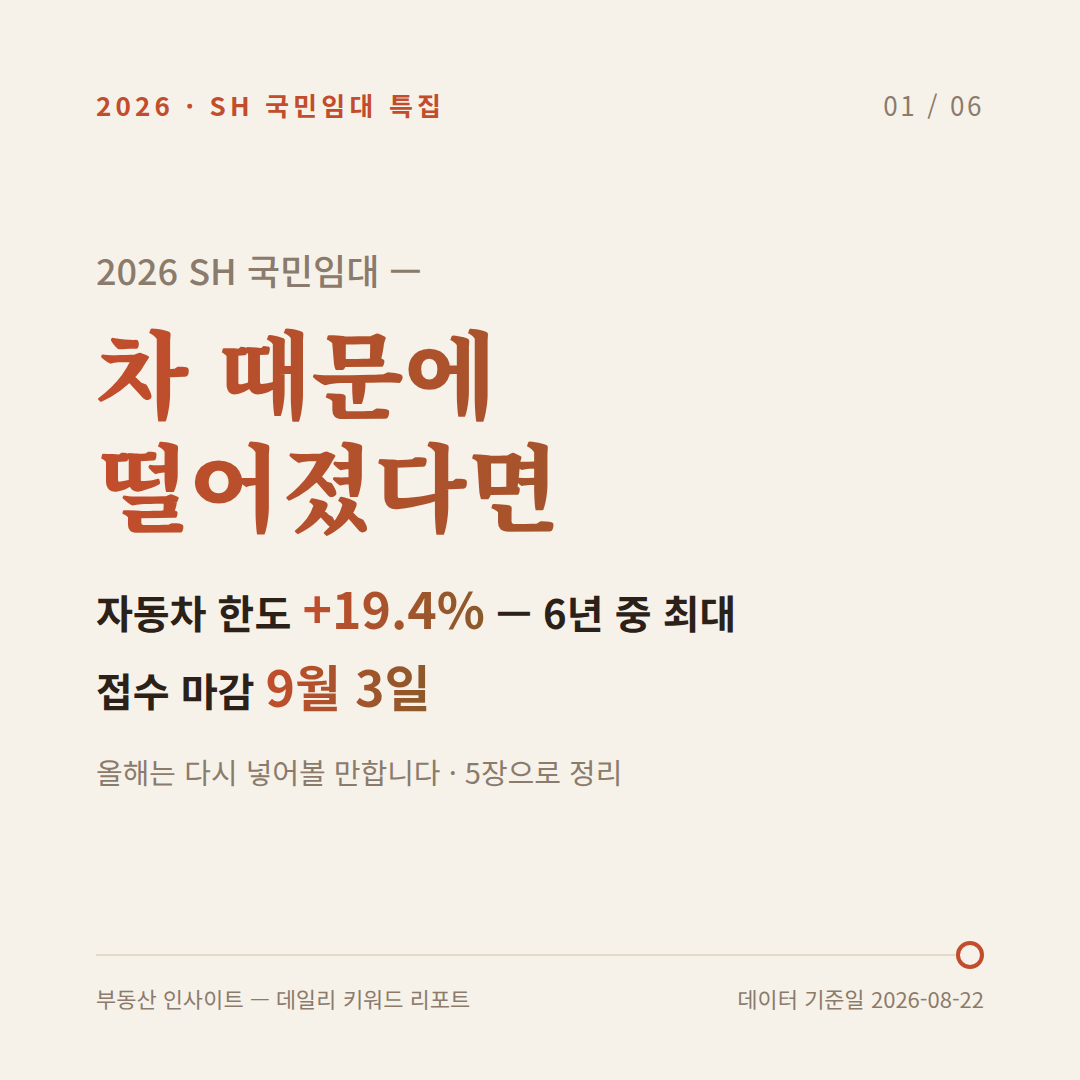
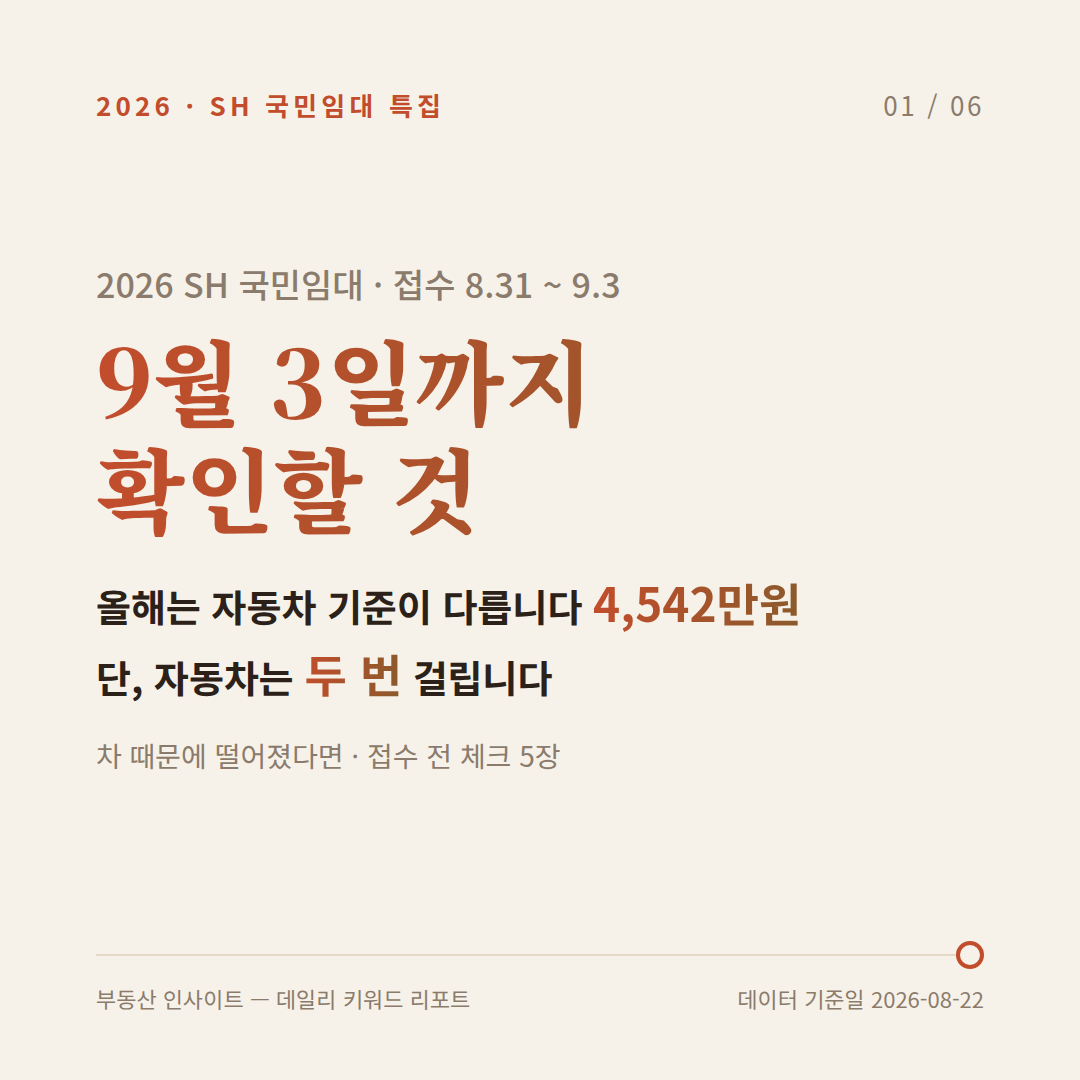
Publish report #35: 국민임대 접수 9월 3일까지 (2026-08-22)
- 앵글 전환: 작년 대비 비교(뉴스) → 마감 전 실행 가이드
- 구조 재배치: 일정·자동차 기준·이중 판정을 앞으로, 4지표 비교는 근거로 후치
- 카드 순서 변경 및 재렌더: 01 표지(마감 강조) / 02 일정 / 03 자동차 / 04 이중 판정 / 05 지표 비교 / 06 체크리스트
- index/sitemap/feed 등록, titles-archive 기록 (title.txt는 블로그 결정 후 반영)

Claude-Session: https://claude.ai/code/session_014FPhCKpii9mVmDWMzN6gma

diff --git a/posts/2026-08-22-shgukmin.html b/posts/2026-08-22-shgukmin.html
@@ -3,10 +3,10 @@
 <head>
 <meta charset="UTF-8">
 <meta name="viewport" content="width=device-width, initial-scale=1.0">
-<title>차 때문에 떨어졌다면 — SH 국민임대 자동차 기준 +19.4% | 부동산 키워드 리포트</title>
-<meta name="description" content="2026 SH 국민임대 자동차 가액 한도 3,803만→4,542만원(+19.4%), 6개 회차 중 최대 인상. 총자산 3억4,500만, 공급 1,973세대(+22.2%). 접수 8.31~9.3 마감 전 체크 3가지.">
-<meta property="og:title" content="차 때문에 떨어졌다면 — SH 국민임대 자동차 기준 +19.4%">
-<meta property="og:description" content="자동차 한도가 6년 중 가장 크게 올랐습니다. 접수는 9월 3일까지 — 놓치기 쉬운 이중 판정과 배점 기준일 이동까지 정리.">
+<title>국민임대 접수 9월 3일까지 — 지금 확인할 3가지 | 부동산 키워드 리포트</title>
+<meta name="description" content="2026 SH 국민임대 접수 8.31~9.3. 자동차 가액 한도 4,542만원으로 올라 작년 탈락자도 재도전 가능 — 단 자동차는 총자산에 다시 합산됩니다. 접수 전 체크 3가지.">
+<meta property="og:title" content="국민임대 접수 9월 3일까지 — 지금 확인할 3가지">
+<meta property="og:description" content="접수는 나흘, 결과는 6개월 뒤. 올해 달라진 자동차 기준과 놓치기 쉬운 이중 판정까지.">
 <meta property="og:type" content="article">
 <meta property="og:image" content="https://mkrealestate4s.github.io/mynews/images/cards/report/shgukmin-01-cover.png">
 <meta name="twitter:card" content="summary_large_image">
@@ -15,8 +15,8 @@
 <link rel="alternate" type="application/rss+xml" title="부동산 인사이트 RSS" href="../feed.xml">
 <script type="application/ld+json">
 {"@context":"https://schema.org","@type":"NewsArticle",
- "headline":"차 때문에 떨어졌다면 — SH 국민임대 자동차 기준 +19.4%",
- "description":"2026 SH 국민임대 자동차 가액 한도 4,542만원(+19.4%), 총자산 3억4,500만원, 공급 1,973세대. 접수 2026.8.31~9.3.",
+ "headline":"국민임대 접수 9월 3일까지 — 지금 확인할 3가지",
+ "description":"2026 SH 국민임대 접수 8.31~9.3. 자동차 가액 한도 4,542만원(+19.4%), 총자산 3억4,500만원, 공급 1,973세대. 접수 전 체크 3가지.",
  "image":"https://mkrealestate4s.github.io/mynews/images/cards/report/shgukmin-01-cover.png",
  "datePublished":"2026-08-22","dateModified":"2026-08-22",
  "author":{"@type":"Organization","name":"부동산 인사이트"},
@@ -231,25 +231,25 @@ footer a{color:var(--teal)}
 <header>
   <div class="eyebrow">2026 · 8월 부동산 키워드 리포트 #35 · 임대주택 특집</div>
   <h1 class="serif gtx" style="font-size:clamp(1.8rem,6.6vw,3.6rem);line-height:1.22">차 때문에<br>떨어졌다면</h1>
-  <p class="sub">작년에 자동차 때문에 국민임대에서 탈락했다면, 올해는 다시 넣어볼 만합니다. 2026년 SH 국민임대 공고에서 자동차 가액 한도가 3,803만원에서 4,542만원으로 올랐습니다 — 6개 회차 중 최대 인상폭입니다. 공급도 1,973세대로 22% 늘었습니다. 다만 자동차는 두 번 걸립니다. 접수는 9월 3일까지입니다.</p>
+  <p class="sub"><strong>접수는 8월 31일부터 9월 3일까지, 나흘입니다.</strong> 지금 확인해야 할 것부터 정리했습니다 — 일정, 올해 달라진 자동차 기준, 그리고 놓치기 쉬운 세 가지. 작년에 차 때문에 탈락했다면 올해는 계산을 다시 해보실 만합니다. 자동차 가액 한도가 4,542만원으로 올랐으니까요. 다만 자동차는 두 번 걸립니다.</p>
 </header>
 
 <div class="trace"></div>
 
 <section id="dashboard">
-  <h2>2026 국민임대 한눈에</h2>
+  <h2>접수 전 한눈에</h2>
   <div class="grid">
-    <div class="kcard"><div class="hot">HOT · 키워드</div><div class="kw">자동차 기준 완화</div>
-      <p>6개 회차 중 최대 인상 — 작년 탈락자도 재도전 가능.</p></div>
-    <div class="kcard"><div class="hot">자동차 가액</div><div class="kw">4,542만원</div>
+    <div class="kcard"><div class="hot">HOT · 마감</div><div class="kw">9월 3일</div>
+      <p>인터넷 접수 8.31~9.3 · 방문 접수 9.1~9.3.</p></div>
+    <div class="kcard"><div class="hot">달라진 점</div><div class="kw">자동차 4,542만원</div>
       <p>작년 3,803만원 → +739만원 (+19.4%).</p></div>
     <div class="kcard"><div class="hot">공급</div><div class="kw">1,973세대</div>
       <p>작년 1,614세대 → +359세대 (+22.2%).</p></div>
-    <div class="kcard"><div class="hot">마감</div><div class="kw">9월 3일</div>
-      <p>인터넷 접수 8.31~9.3 · 당첨 발표는 2027.2.15.</p></div>
+    <div class="kcard"><div class="hot">주의</div><div class="kw">이중 판정</div>
+      <p>자동차 한도 통과해도 그 차값이 총자산에 합산.</p></div>
   </div>
 
-  <div class="colchart" data-img="카드뉴스 3번 · 자동차 한도, 739만원 올랐다">
+  <div class="colchart" data-img="카드뉴스 3번 · 한도가 739만원 올랐다">
     <h3>국민임대 자동차 가액 한도 (만원, SH 공고 기준)</h3>
     <span class="badge">+739만원 · +19.4%</span>
     <div class="cols">
@@ -257,7 +257,7 @@ footer a{color:var(--teal)}
       <div class="col" style="--h:82%"><div class="v">4,542</div><div class="peak">2026</div><div class="barv"></div></div>
     </div>
     <div class="collbl"><span>2025 공고</span><span>2026 공고</span></div>
-    <p class="cap">2021~2026년 여섯 차례 공고 중 인상폭이 가장 컸습니다 — 차 한 대가 당락을 갈랐던 분들에게 가장 중요한 변화입니다.</p>
+    <p class="cap">차 한 대가 당락을 갈랐던 분들에게 올해 가장 중요한 변화입니다 — 준중형 신차나 연식 얕은 SUV가 새로 기준 안에 들어옵니다.</p>
   </div>
 </section>
 
@@ -267,57 +267,29 @@ footer a{color:var(--teal)}
   <h2>카드뉴스로 한눈에</h2>
   <p class="cards-hint">옆으로 넘기며 핵심만 — 이미지를 저장해 활용하셔도 좋습니다.</p>
   <div class="cards">
-    <img class="card-art" data-file="shgukmin-01-cover.png" src="../images/cards/report/shgukmin-01-cover.png" alt="카드뉴스 1/6 — 표지: 차 때문에 떨어졌다면, 자동차 기준 +19.4%" loading="lazy" width="1080" height="1080">
-    <img class="card-art" data-file="shgukmin-02-double.png" src="../images/cards/report/shgukmin-02-double.png" alt="카드뉴스 2/6 — 자동차는 두 번 걸린다: 가액 한도와 총자산 합산" loading="lazy" width="1080" height="1080">
+    <img class="card-art" data-file="shgukmin-01-cover.png" src="../images/cards/report/shgukmin-01-cover.png" alt="카드뉴스 1/6 — 표지: 접수 9월 3일까지, 올해는 자동차 기준이 다릅니다" loading="lazy" width="1080" height="1080">
+    <img class="card-art" data-file="shgukmin-02-sched.png" src="../images/cards/report/shgukmin-02-sched.png" alt="카드뉴스 2/6 — 일정: 접수 8.31~9.3, 당첨 발표 2027.2.15" loading="lazy" width="1080" height="1080">
     <img class="card-art" data-file="shgukmin-03-car.png" src="../images/cards/report/shgukmin-03-car.png" alt="카드뉴스 3/6 — 자동차 가액 한도 3,803만에서 4,542만원으로" loading="lazy" width="1080" height="1080">
-    <img class="card-art" data-file="shgukmin-04-multi.png" src="../images/cards/report/shgukmin-04-multi.png" alt="카드뉴스 4/6 — 네 가지 기준 인상률: 공급 22.2%, 자동차 19.4%, 소득 7.1%, 총자산 2.4%" loading="lazy" width="1080" height="1080">
-    <img class="card-art" data-file="shgukmin-05-sched.png" src="../images/cards/report/shgukmin-05-sched.png" alt="카드뉴스 5/6 — 일정: 접수 8.31~9.3, 당첨 발표 2027.2.15" loading="lazy" width="1080" height="1080">
-    <img class="card-art" data-file="shgukmin-06-check.png" src="../images/cards/report/shgukmin-06-check.png" alt="카드뉴스 6/6 — 놓치기 쉬운 3가지: 이중 판정, 배점 기준일, 심사 시점" loading="lazy" width="1080" height="1080">
+    <img class="card-art" data-file="shgukmin-04-double.png" src="../images/cards/report/shgukmin-04-double.png" alt="카드뉴스 4/6 — 자동차는 두 번 걸린다: 가액 한도와 총자산 합산" loading="lazy" width="1080" height="1080">
+    <img class="card-art" data-file="shgukmin-05-multi.png" src="../images/cards/report/shgukmin-05-multi.png" alt="카드뉴스 5/6 — 네 가지 기준 인상률: 공급 22.2%, 자동차 19.4%, 소득 7.1%, 총자산 2.4%" loading="lazy" width="1080" height="1080">
+    <img class="card-art" data-file="shgukmin-06-check.png" src="../images/cards/report/shgukmin-06-check.png" alt="카드뉴스 6/6 — 접수 전 마지막 3가지" loading="lazy" width="1080" height="1080">
   </div>
 </section>
 
 <div class="trace"></div>
 
 <article data-tags="SH국민임대,국민임대주택,임대주택자격,서울임대주택,자동차기준,2026국민임대,미리내집,청약,무주택,배점표">
-  <h2>차 때문에 떨어졌다면 — 2026 국민임대, 자동차 기준이 가장 크게 올랐습니다</h2>
+  <h2>국민임대 접수 9월 3일까지 — 지금 확인할 3가지</h2>
   <div class="copybar">
     <button class="cbtn" id="copyBody">📋 블로그용 본문 복사</button>
     <button class="cbtn" id="copyLink">🔗 링크 복사</button>
   </div>
-  <span class="imgslot" hidden data-img="카드뉴스 1번 · 표지 — 차 때문에 떨어졌다면"></span>
+  <span class="imgslot" hidden data-img="카드뉴스 1번 · 표지 — 접수 9월 3일까지"></span>
 
-  <p>국민임대에서 자동차는 늘 조용한 탈락 사유였습니다. 소득도 자산도 맞는데 차 한 대 때문에 서류에서 걸리는 경우가 많았습니다. 그런데 <strong>2026년 SH 국민임대 공고에서 자동차 가액 한도가 3,803만원에서 4,542만원으로 올랐습니다</strong> — 739만원, <span class="mark">19.4% 인상</span>입니다. 작년에 차 때문에 포기했다면 올해는 계산을 다시 해보실 만합니다. 접수는 <strong>8월 31일부터 9월 3일까지</strong>입니다.</p>
+  <p>2026년 SH 국민임대 접수가 <strong>8월 31일부터 9월 3일까지 나흘간</strong> 진행됩니다. 준비할 시간이 열흘 남았으니, 지금 필요한 건 공고 요약이 아니라 <span class="mark">내가 되는지 계산하고 서류를 챙기는 일</span>입니다. 일정부터 짚고, 올해 달라진 기준과 놓치기 쉬운 함정을 순서대로 정리했습니다.</p>
 
-  <h3>자동차 한도, 6년 중 가장 크게 올랐다</h3>
-  <span class="imgslot" hidden data-img="카드뉴스 3번 · 자동차 한도, 739만원 올랐다"></span>
-  <p>2021년부터 2026년까지 여섯 차례 공고를 놓고 보면, <strong>올해 인상폭(+19.4%)이 가장 큽니다</strong>. 차값 기준선이 3,800만원대에서 4,500만원대로 올라오면서, 준중형·중형 신차나 연식 얕은 SUV를 보유한 가구가 새로 기준 안에 들어옵니다. 자동차 가액은 보험개발원 차량기준가액으로 판정하므로, 실제 구입가나 중고 시세가 아니라 <strong>기준가액표상 금액</strong>을 확인해야 합니다.</p>
-
-  <h3>네 가지 기준, 이렇게 바뀌었다</h3>
-  <div class="chart" data-img="카드뉴스 4번 · 네 가지 기준 인상률 비교">
-    <h3>2025 → 2026 공고 변화율 (%)</h3>
-    <div class="bar"><label>총 공급 세대 — 1,614 → 1,973세대</label>
-      <div class="rail"><div class="fill gray" style="width:100%">+22.2</div></div></div>
-    <div class="bar"><label>자동차 가액 한도 — 3,803 → 4,542만원</label>
-      <div class="rail"><div class="fill" style="width:87.4%">+19.4</div></div></div>
-    <div class="bar"><label>소득 상한 (3인 가구, 50% 유형)</label>
-      <div class="rail"><div class="fill gray" style="width:32%">+7.1</div></div></div>
-    <div class="bar"><label>총자산 한도 — 3억3,700 → 3억4,500만원</label>
-      <div class="rail"><div class="fill gray" style="width:10.8%">+2.4</div></div></div>
-    <p class="cap">자동차와 공급이 크게 움직였고, 총자산은 사실상 제자리입니다 — 그래서 자동차를 총자산에 합산할 때 여유가 줄어듭니다.</p>
-  </div>
-  <p>소득 상한은 3인 가구 50% 유형이 월 3,813,487원에서 <strong>4,084,215원으로 7.1% 올랐습니다</strong>. 인상폭은 가구원수가 적을수록 큽니다 — 2·3인은 +7.1%인데 6인은 +1.8%에 그칩니다. 1~3인 가구라면 작년 기준으로 아깝게 넘겼던 경우를 다시 확인해 볼 값입니다. 반면 <strong>총자산 한도는 3억3,700만원에서 3억4,500만원으로 2.4%만 올랐습니다</strong>.</p>
-
-  <h3>자동차는 두 번 걸립니다</h3>
-  <span class="imgslot" hidden data-img="카드뉴스 2번 · 자동차는 두 번 걸린다"></span>
-  <p>가장 많이 놓치는 지점입니다. 자동차 가액 한도(4,542만원)를 통과했다고 끝이 아닙니다. <strong>그 차값이 총자산(3억4,500만원)에 다시 합산되어 한 번 더 판정</strong>됩니다. 즉 4,500만원짜리 차를 가진 가구는 자동차 항목은 통과하지만, 총자산 계산에서 4,500만원을 이미 쓴 상태로 시작합니다. 부동산·금융자산에 여유가 적은 가구라면 <span class="mark">차 기준 통과가 오히려 총자산에서 발목을 잡을 수</span> 있습니다. 자동차 한도만 보고 안심하지 말고, 반드시 총자산 합산까지 계산해 보셔야 합니다.</p>
-
-  <h3>배점표는 그대로, 기준일은 1년 밀렸습니다</h3>
-  <p>배점표는 <strong>9항목 27점으로 작년과 완전히 동일</strong>합니다. 항목·구간·점수에 변화가 없습니다. 그런데 <strong>배점 기준일이 1년 이동</strong>했습니다. 나이와 거주기간 구간의 경계가 통째로 밀렸다는 뜻입니다. 조건이 작년과 똑같아도 구간이 바뀌어 점수가 달라질 수 있으니, <strong>주민등록상 생년월일과 최종 전입일을 다시 확인</strong>하시길 권합니다. 경계선에 걸쳐 있던 분들에게는 점수가 오르는 방향일 수도, 내려가는 방향일 수도 있습니다.</p>
-  <p>또 하나 아직 모르는 분이 많은 변화가 있습니다. <strong>59㎡ 주택형의 1인 가구 신청이 2025년부터 허용</strong>됐습니다. 2024년까지는 단독세대주가 이 면적에서 제외됐던 만큼, 몇 해 전 정보로 판단해 지원 자체를 접었던 1인 가구라면 올해 다시 확인해 보실 만합니다.</p>
-
-  <h3>일정 — 접수는 나흘, 결과는 6개월 뒤</h3>
-  <span class="imgslot" hidden data-img="카드뉴스 5번 · 접수 나흘, 결과는 6개월 뒤"></span>
-  <p>인터넷 접수는 8월 31일부터 9월 3일까지 나흘입니다. 서류심사 대상자 발표는 10월 12일, 당첨자 발표는 2027년 2월 15일, 계약은 2027년 3월 3~5일입니다.</p>
+  <h3>먼저 일정 — 접수는 나흘, 결과는 6개월 뒤</h3>
+  <span class="imgslot" hidden data-img="카드뉴스 2번 · 접수 나흘, 결과는 6개월 뒤"></span>
   <div class="sched">
     <div class="row on"><span class="lb">인터넷 접수</span><span class="dt">2026.08.31 ~ 09.03</span></div>
     <div class="row on"><span class="lb">방문 접수</span><span class="dt">2026.09.01 ~ 09.03</span></div>
@@ -327,6 +299,33 @@ footer a{color:var(--teal)}
     <div class="row"><span class="lb">계약</span><span class="dt">2027.03.03 ~ 03.05</span></div>
   </div>
   <p>접수부터 계약까지 <strong>6개월</strong>이 걸립니다. 이 기간이 중요한 이유가 있습니다 — 자격은 접수 시점만이 아니라 <strong>서류심사 시점 기준으로도 판정</strong>됩니다. 그 사이 소득이 오르거나 자산이 늘면 심사에서 걸릴 수 있습니다. 이직·연봉 인상, 차량 교체, 예금 증가가 예정돼 있다면 그 시점까지 감안해서 판단하셔야 합니다.</p>
+
+  <h3>올해 다시 넣어볼 만한 이유 — 자동차 한도 +19.4%</h3>
+  <span class="imgslot" hidden data-img="카드뉴스 3번 · 한도가 739만원 올랐다"></span>
+  <p>국민임대에서 자동차는 늘 조용한 탈락 사유였습니다. 소득도 자산도 맞는데 차 한 대 때문에 서류에서 걸리는 경우가 많았습니다. 그런데 올해 <strong>자동차 가액 한도가 3,803만원에서 4,542만원으로 올랐습니다</strong> — 739만원, 19.4% 인상으로 2021년 이후 여섯 차례 공고 중 인상폭이 가장 큽니다. 기준선이 3,800만원대에서 4,500만원대로 올라오면서 준중형·중형 신차나 연식 얕은 SUV를 보유한 가구가 새로 기준 안에 들어옵니다. 자동차 가액은 보험개발원 차량기준가액으로 판정하므로, 실제 구입가나 중고 시세가 아니라 <strong>기준가액표상 금액</strong>을 확인해야 합니다.</p>
+
+  <h3>단, 자동차는 두 번 걸립니다</h3>
+  <span class="imgslot" hidden data-img="카드뉴스 4번 · 자동차는 두 번 걸린다"></span>
+  <p>가장 많이 놓치는 지점입니다. 자동차 가액 한도(4,542만원)를 통과했다고 끝이 아닙니다. <strong>그 차값이 총자산(3억4,500만원)에 다시 합산되어 한 번 더 판정</strong>됩니다. 즉 4,500만원짜리 차를 가진 가구는 자동차 항목은 통과하지만, 총자산 계산에서 4,500만원을 이미 쓴 상태로 시작합니다. 부동산·금융자산에 여유가 적은 가구라면 <span class="mark">차 기준 통과가 오히려 총자산에서 발목을 잡을 수</span> 있습니다. 자동차 한도만 보고 안심하지 말고, 반드시 총자산 합산까지 계산해 보셔야 합니다.</p>
+
+  <h3>나머지 기준은 이렇게 바뀌었다</h3>
+  <div class="chart" data-img="카드뉴스 5번 · 네 가지 기준 인상률 비교">
+    <h3>2025 → 2026 공고 변화율 (%)</h3>
+    <div class="bar"><label>총 공급 세대 — 1,614 → 1,973세대</label>
+      <div class="rail"><div class="fill gray" style="width:100%">+22.2</div></div></div>
+    <div class="bar"><label>자동차 가액 한도 — 3,803 → 4,542만원</label>
+      <div class="rail"><div class="fill" style="width:87.4%">+19.4</div></div></div>
+    <div class="bar"><label>소득 상한 (3인 가구, 50% 유형)</label>
+      <div class="rail"><div class="fill gray" style="width:32%">+7.1</div></div></div>
+    <div class="bar"><label>총자산 한도 — 3억3,700 → 3억4,500만원</label>
+      <div class="rail"><div class="fill gray" style="width:10.8%">+2.4</div></div></div>
+    <p class="cap">자동차와 공급이 크게 움직였고, 총자산은 사실상 제자리입니다 — 그래서 자동차를 합산할 여유는 오히려 줄었습니다.</p>
+  </div>
+  <p>소득 상한은 3인 가구 50% 유형이 월 3,813,487원에서 <strong>4,084,215원으로 7.1% 올랐습니다</strong>. 인상폭은 가구원수가 적을수록 큽니다 — 2·3인은 +7.1%인데 6인은 +1.8%에 그칩니다. 1~3인 가구라면 작년 기준으로 아깝게 넘겼던 경우를 다시 확인해 볼 값입니다. 공급은 <strong>1,614세대에서 1,973세대로 22.2% 늘었습니다</strong>. 자격 문턱이 낮아지고 물량도 함께 늘어난 해입니다.</p>
+
+  <h3>배점표는 그대로, 기준일은 1년 밀렸습니다</h3>
+  <p>배점표는 <strong>9항목 27점으로 작년과 완전히 동일</strong>합니다. 항목·구간·점수에 변화가 없습니다. 그런데 <strong>배점 기준일이 1년 이동</strong>했습니다. 나이와 거주기간 구간의 경계가 통째로 밀렸다는 뜻입니다. 조건이 작년과 똑같아도 구간이 바뀌어 점수가 달라질 수 있으니, <strong>주민등록상 생년월일과 최종 전입일을 다시 확인</strong>하시길 권합니다. 경계선에 걸쳐 있던 분들에게는 점수가 오르는 방향일 수도, 내려가는 방향일 수도 있습니다.</p>
+  <p>또 하나 아직 모르는 분이 많은 변화가 있습니다. <strong>59㎡ 주택형의 1인 가구 신청이 2025년부터 허용</strong>됐습니다. 2024년까지는 단독세대주가 이 면적에서 제외됐던 만큼, 몇 해 전 정보로 판단해 지원 자체를 접었던 1인 가구라면 올해 다시 확인해 보실 만합니다.</p>
 
   <h3>접수 전 마지막 3가지</h3>
   <figure class="cardimg" data-img="카드뉴스 6번 · 접수 전 마지막 3가지 (체크리스트)">
@@ -346,7 +345,7 @@ footer a{color:var(--teal)}
   <p class="linkline">https://tools.snowcoop.com/gukmin-rental/compare.html</p>
 
   <h3>정리</h3>
-  <p>올해 국민임대의 핵심 변화는 <strong>자동차 한도 +19.4%와 공급 +22.2%</strong>입니다. 자격 문턱이 낮아지고 물량이 늘었으니, 작년에 아깝게 탈락했던 가구에게는 조건이 유리해졌습니다. 다만 총자산 한도는 2.4%만 올라 자동차를 합산할 여유는 오히려 빡빡해졌고, 배점 기준일 이동으로 점수가 달라질 수 있습니다. 접수 마감은 <strong>9월 3일</strong> — 계산은 이번 주에 끝내 두시는 게 좋습니다.</p>
+  <p>남은 건 열흘입니다. 순서는 이렇게 하시면 됩니다 — <strong>① 차량기준가액 확인 → ② 그 금액을 총자산에 넣어 재계산 → ③ 생년월일·전입일로 배점 구간 확인 → ④ 내년 2월 기준으로도 통과하는지 점검</strong>. 올해는 자동차 한도가 6년 중 가장 크게 올랐고 공급도 22% 늘었으니, 작년에 아깝게 탈락했던 가구라면 조건이 유리해졌습니다. 다만 총자산 한도는 2.4%만 올라 자동차 합산 여유는 줄었습니다. 계산은 이번 주에 끝내 두시는 게 좋습니다.</p>
 
   <div class="note">※ 본 정리는 참고용이며 법적 효력이 없습니다. 신청 전 반드시 SH 공고문 원문과 SH 고객센터(1600-3456)로 확인하세요. 미리내집 8차 접수 일정은 SH 청약 페이지에서 별도 확인이 필요합니다.</div>
 </article>

diff --git a/index.html b/index.html
@@ -113,6 +113,13 @@ footer{padding:56px 0 72px;color:var(--mute);font-size:.82rem}
 <div class="trace"></div>
 
 <!-- ⬇ 매일 여기 맨 위에 글 카드를 하나씩 추가 -->
+<a class="post" href="posts/2026-08-22-shgukmin.html">
+  <div class="date">2026.08.22 · 키워드 리포트 #35 · 임대주택 특집</div>
+  <div class="kw gtx">9월 3일까지 확인할 것</div>
+  <p>2026 SH 국민임대 접수 8.31~9.3 — 자동차 가액 한도 4,542만원(+19.4%), 공급 1,973세대. 단, 자동차는 총자산에 다시 합산됩니다.</p>
+  <span class="go">리포트 읽기 →</span>
+</a>
+
 <a class="post" href="posts/2026-08-22-pyeongkyun.html">
   <div class="date">2026.08.22 · 키워드 리포트 #34</div>
   <div class="kw gtx">평균의 함정</div>
